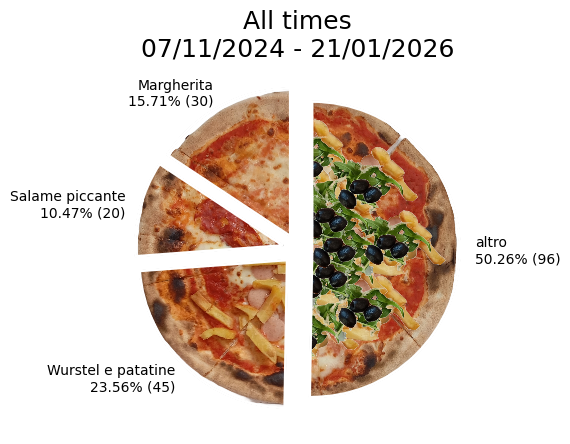
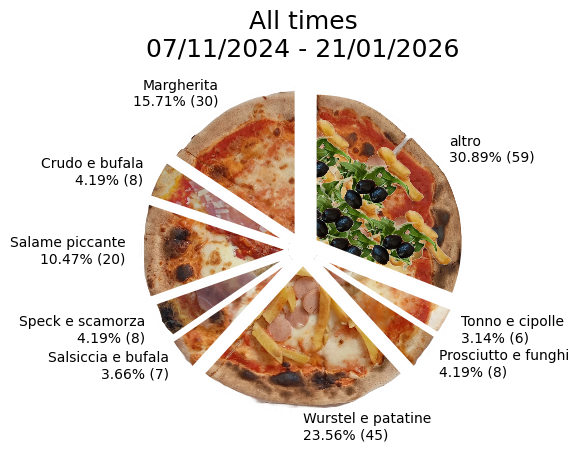
set cutoff for report to 3.0

diff --git a/scripts/pizza_report.py b/scripts/pizza_report.py
@@ -60,7 +60,7 @@ if __name__ == '__main__':
                                          title=title,
                                          theme=theme,
                                          source=SOURCE,
-                                         cutoff=5.0
+                                         cutoff=3.0
                                         )
         fpath = os.path.join(charts_dir, 
                              'last_time_{}.png'.format(theme)
@@ -84,7 +84,7 @@ if __name__ == '__main__':
                                          title=title,
                                          theme=theme,
                                          source=SOURCE,
-                                         cutoff=5.0
+                                         cutoff=3.0
                                         )
         fpath = os.path.join(charts_dir, 
                              'last_month_{}.png'.format(theme)
@@ -112,7 +112,7 @@ if __name__ == '__main__':
                                          title=title,
                                          theme=theme,
                                          source=SOURCE,
-                                         cutoff=5.0
+                                         cutoff=3.0
                                         )
         fpath = os.path.join(charts_dir, 
                              'all_time_{}.png'.format(theme)
